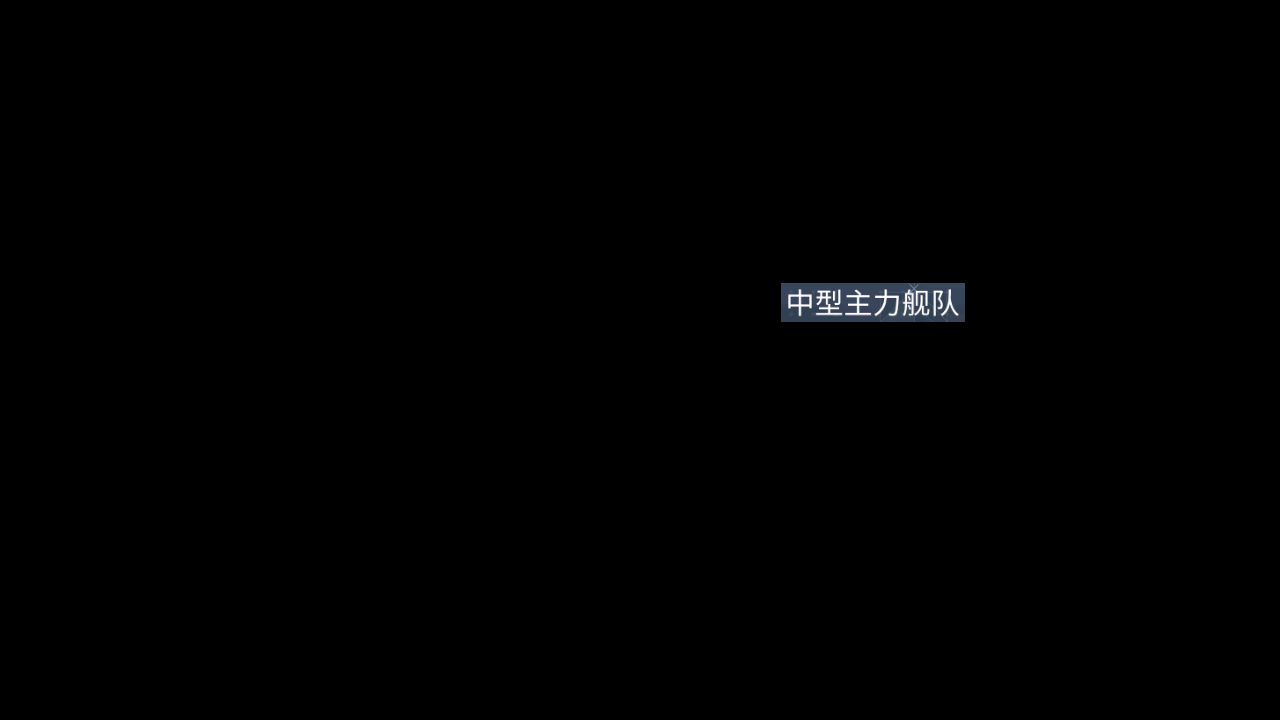
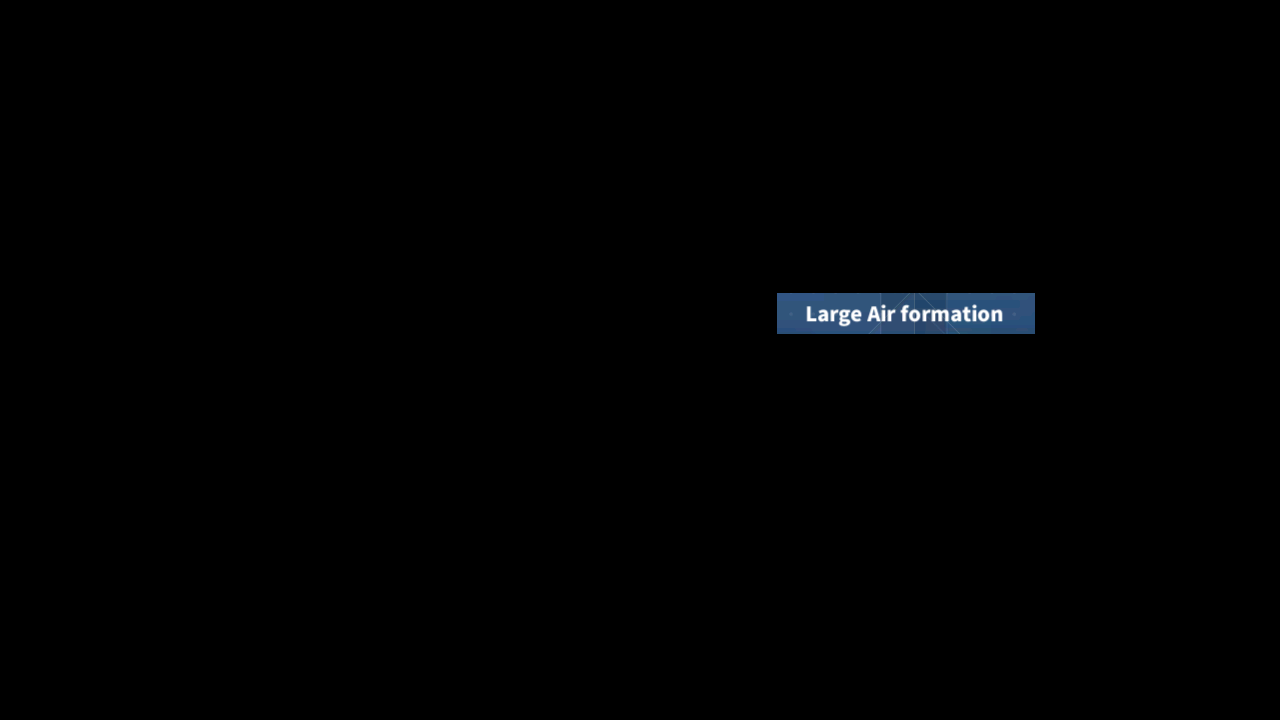
Various asset related changes

Changed region(s): [[0.5938, 0.3667, 0.8125, 0.4889]]

diff --git a/module/combat/assets.py b/module/combat/assets.py
@@ -11,11 +11,11 @@ AUTOMATION_ON = Button(area={'cn': (759, 113, 790, 129), 'en': (759, 113, 790, 1
 AUTOMATION_SWITCH = Button(area={'cn': (821, 106, 907, 136), 'en': (823, 109, 907, 130), 'jp': (822, 105, 905, 133), 'tw': (821, 106, 907, 136)}, color={'cn': (95, 109, 147), 'en': (83, 98, 135), 'jp': (103, 118, 157), 'tw': (95, 109, 147)}, button={'cn': (821, 106, 907, 136), 'en': (823, 109, 907, 130), 'jp': (822, 105, 905, 133), 'tw': (821, 106, 907, 136)}, file={'cn': './assets/cn/combat/AUTOMATION_SWITCH.png', 'en': './assets/en/combat/AUTOMATION_SWITCH.png', 'jp': './assets/jp/combat/AUTOMATION_SWITCH.png', 'tw': './assets/tw/combat/AUTOMATION_SWITCH.png'})
 BATTLE_PREPARATION = Button(area={'cn': (1062, 612, 1089, 643), 'en': (1062, 615, 1161, 640), 'jp': (1062, 613, 1087, 643), 'tw': (1063, 613, 1088, 643)}, color={'cn': (238, 200, 164), 'en': (244, 212, 171), 'jp': (234, 195, 156), 'tw': (238, 203, 168)}, button={'cn': (1043, 607, 1241, 667), 'en': (1045, 607, 1241, 667), 'jp': (1040, 604, 1242, 670), 'tw': (1043, 607, 1241, 667)}, file={'cn': './assets/cn/combat/BATTLE_PREPARATION.png', 'en': './assets/en/combat/BATTLE_PREPARATION.gif', 'jp': './assets/jp/combat/BATTLE_PREPARATION.png', 'tw': './assets/tw/combat/BATTLE_PREPARATION.png'})
 BATTLE_PREPARATION_WITH_OVERLAY = Button(area={'cn': (1058, 622, 1226, 652), 'en': (1058, 622, 1226, 652), 'jp': (1058, 622, 1226, 652), 'tw': (1058, 622, 1226, 652)}, color={'cn': (96, 74, 39), 'en': (96, 74, 39), 'jp': (96, 74, 39), 'tw': (96, 74, 39)}, button={'cn': (1058, 622, 1226, 652), 'en': (1058, 622, 1226, 652), 'jp': (1058, 622, 1226, 652), 'tw': (1058, 622, 1226, 652)}, file={'cn': './assets/cn/combat/BATTLE_PREPARATION_WITH_OVERLAY.png', 'en': './assets/en/combat/BATTLE_PREPARATION_WITH_OVERLAY.png', 'jp': './assets/jp/combat/BATTLE_PREPARATION_WITH_OVERLAY.png', 'tw': './assets/tw/combat/BATTLE_PREPARATION_WITH_OVERLAY.png'})
-BATTLE_STATUS_A = Button(area={'cn': (634, 269, 730, 288), 'en': (634, 269, 730, 288), 'jp': (634, 269, 730, 288), 'tw': (634, 269, 730, 288)}, color={'cn': (235, 229, 111), 'en': (235, 229, 111), 'jp': (235, 229, 111), 'tw': (235, 229, 111)}, button={'cn': (1000, 631, 1055, 689), 'en': (999, 630, 1047, 691), 'jp': (1000, 631, 1055, 689), 'tw': (1000, 631, 1055, 689)}, file={'cn': './assets/cn/combat/BATTLE_STATUS_A.png', 'en': './assets/en/combat/BATTLE_STATUS_A.png', 'jp': './assets/jp/combat/BATTLE_STATUS_A.png', 'tw': './assets/tw/combat/BATTLE_STATUS_A.png'})
-BATTLE_STATUS_B = Button(area={'cn': (625, 297, 712, 317), 'en': (625, 297, 712, 317), 'jp': (625, 297, 712, 317), 'tw': (625, 297, 712, 317)}, color={'cn': (193, 239, 255), 'en': (193, 239, 255), 'jp': (193, 239, 255), 'tw': (193, 239, 255)}, button={'cn': (999, 630, 1047, 691), 'en': (999, 630, 1047, 691), 'jp': (1000, 631, 1055, 689), 'tw': (999, 630, 1047, 691)}, file={'cn': './assets/cn/combat/BATTLE_STATUS_B.png', 'en': './assets/en/combat/BATTLE_STATUS_B.png', 'jp': './assets/jp/combat/BATTLE_STATUS_B.png', 'tw': './assets/tw/combat/BATTLE_STATUS_B.png'})
-BATTLE_STATUS_C = Button(area={'cn': (625, 211, 647, 297), 'en': (625, 211, 647, 297), 'jp': (625, 211, 647, 297), 'tw': (625, 211, 647, 297)}, color={'cn': (199, 208, 198), 'en': (199, 208, 198), 'jp': (199, 208, 198), 'tw': (199, 208, 198)}, button={'cn': (1000, 631, 1055, 689), 'en': (1000, 631, 1055, 689), 'jp': (1000, 631, 1055, 689), 'tw': (1000, 631, 1055, 689)}, file={'cn': './assets/cn/combat/BATTLE_STATUS_C.png', 'en': './assets/en/combat/BATTLE_STATUS_C.png', 'jp': './assets/jp/combat/BATTLE_STATUS_C.png', 'tw': './assets/tw/combat/BATTLE_STATUS_C.png'})
-BATTLE_STATUS_D = Button(area={'cn': (618, 191, 639, 317), 'en': (618, 191, 639, 317), 'jp': (618, 191, 639, 317), 'tw': (618, 191, 639, 317)}, color={'cn': (199, 208, 199), 'en': (199, 208, 199), 'jp': (199, 208, 199), 'tw': (199, 208, 199)}, button={'cn': (1000, 631, 1055, 689), 'en': (1000, 631, 1055, 689), 'jp': (1000, 631, 1055, 689), 'tw': (1000, 631, 1055, 689)}, file={'cn': './assets/cn/combat/BATTLE_STATUS_D.png', 'en': './assets/en/combat/BATTLE_STATUS_D.png', 'jp': './assets/jp/combat/BATTLE_STATUS_D.png', 'tw': './assets/tw/combat/BATTLE_STATUS_D.png'})
-BATTLE_STATUS_S = Button(area={'cn': (643, 297, 722, 317), 'en': (643, 297, 722, 317), 'jp': (643, 297, 722, 317), 'tw': (643, 297, 722, 317)}, color={'cn': (233, 242, 127), 'en': (233, 242, 127), 'jp': (233, 242, 127), 'tw': (233, 242, 127)}, button={'cn': (1000, 631, 1055, 689), 'en': (999, 630, 1047, 691), 'jp': (1000, 631, 1055, 689), 'tw': (1000, 631, 1055, 689)}, file={'cn': './assets/cn/combat/BATTLE_STATUS_S.png', 'en': './assets/en/combat/BATTLE_STATUS_S.png', 'jp': './assets/jp/combat/BATTLE_STATUS_S.png', 'tw': './assets/tw/combat/BATTLE_STATUS_S.png'})
+BATTLE_STATUS_A = Button(area={'cn': (634, 269, 730, 288), 'en': (634, 269, 730, 288), 'jp': (634, 269, 730, 288), 'tw': (634, 269, 730, 288)}, color={'cn': (235, 229, 111), 'en': (235, 229, 111), 'jp': (235, 229, 111), 'tw': (235, 229, 111)}, button={'cn': (634, 269, 730, 288), 'en': (634, 269, 730, 288), 'jp': (634, 269, 730, 288), 'tw': (634, 269, 730, 288)}, file={'cn': './assets/cn/combat/BATTLE_STATUS_A.png', 'en': './assets/en/combat/BATTLE_STATUS_A.png', 'jp': './assets/jp/combat/BATTLE_STATUS_A.png', 'tw': './assets/tw/combat/BATTLE_STATUS_A.png'})
+BATTLE_STATUS_B = Button(area={'cn': (625, 297, 712, 317), 'en': (625, 297, 712, 317), 'jp': (625, 297, 712, 317), 'tw': (625, 297, 712, 317)}, color={'cn': (193, 239, 255), 'en': (193, 239, 255), 'jp': (193, 239, 255), 'tw': (193, 239, 255)}, button={'cn': (625, 297, 712, 317), 'en': (625, 297, 712, 317), 'jp': (625, 297, 712, 317), 'tw': (625, 297, 712, 317)}, file={'cn': './assets/cn/combat/BATTLE_STATUS_B.png', 'en': './assets/en/combat/BATTLE_STATUS_B.png', 'jp': './assets/jp/combat/BATTLE_STATUS_B.png', 'tw': './assets/tw/combat/BATTLE_STATUS_B.png'})
+BATTLE_STATUS_C = Button(area={'cn': (625, 211, 647, 297), 'en': (625, 211, 647, 297), 'jp': (625, 211, 647, 297), 'tw': (625, 211, 647, 297)}, color={'cn': (199, 208, 198), 'en': (199, 208, 198), 'jp': (199, 208, 198), 'tw': (199, 208, 198)}, button={'cn': (625, 211, 647, 297), 'en': (625, 211, 647, 297), 'jp': (625, 211, 647, 297), 'tw': (625, 211, 647, 297)}, file={'cn': './assets/cn/combat/BATTLE_STATUS_C.png', 'en': './assets/en/combat/BATTLE_STATUS_C.png', 'jp': './assets/jp/combat/BATTLE_STATUS_C.png', 'tw': './assets/tw/combat/BATTLE_STATUS_C.png'})
+BATTLE_STATUS_D = Button(area={'cn': (618, 191, 639, 317), 'en': (618, 191, 639, 317), 'jp': (618, 191, 639, 317), 'tw': (618, 191, 639, 317)}, color={'cn': (199, 208, 199), 'en': (199, 208, 199), 'jp': (199, 208, 199), 'tw': (199, 208, 199)}, button={'cn': (618, 191, 639, 317), 'en': (618, 191, 639, 317), 'jp': (618, 191, 639, 317), 'tw': (618, 191, 639, 317)}, file={'cn': './assets/cn/combat/BATTLE_STATUS_D.png', 'en': './assets/en/combat/BATTLE_STATUS_D.png', 'jp': './assets/jp/combat/BATTLE_STATUS_D.png', 'tw': './assets/tw/combat/BATTLE_STATUS_D.png'})
+BATTLE_STATUS_S = Button(area={'cn': (643, 297, 722, 317), 'en': (643, 297, 722, 317), 'jp': (643, 297, 722, 317), 'tw': (643, 297, 722, 317)}, color={'cn': (233, 242, 127), 'en': (233, 242, 127), 'jp': (233, 242, 127), 'tw': (233, 242, 127)}, button={'cn': (643, 297, 722, 317), 'en': (643, 297, 722, 317), 'jp': (643, 297, 722, 317), 'tw': (643, 297, 722, 317)}, file={'cn': './assets/cn/combat/BATTLE_STATUS_S.png', 'en': './assets/en/combat/BATTLE_STATUS_S.png', 'jp': './assets/jp/combat/BATTLE_STATUS_S.png', 'tw': './assets/tw/combat/BATTLE_STATUS_S.png'})
 COMBAT_AUTO = Button(area={'cn': (136, 573, 167, 604), 'en': (136, 573, 167, 604), 'jp': (136, 573, 167, 604), 'tw': (136, 573, 167, 604)}, color={'cn': (229, 242, 255), 'en': (229, 242, 255), 'jp': (229, 242, 255), 'tw': (229, 242, 255)}, button={'cn': (136, 573, 167, 604), 'en': (136, 573, 167, 604), 'jp': (136, 573, 167, 604), 'tw': (136, 573, 167, 604)}, file={'cn': './assets/cn/combat/COMBAT_AUTO.png', 'en': './assets/en/combat/COMBAT_AUTO.png', 'jp': './assets/jp/combat/COMBAT_AUTO.png', 'tw': './assets/tw/combat/COMBAT_AUTO.png'})
 COMBAT_AUTO_133 = Button(area={'cn': (131, 568, 170, 609), 'en': (131, 568, 170, 609), 'jp': (131, 568, 170, 609), 'tw': (131, 568, 170, 609)}, color={'cn': (234, 244, 255), 'en': (234, 244, 255), 'jp': (234, 244, 255), 'tw': (234, 244, 255)}, button={'cn': (131, 568, 170, 609), 'en': (131, 568, 170, 609), 'jp': (131, 568, 170, 609), 'tw': (131, 568, 170, 609)}, file={'cn': './assets/cn/combat/COMBAT_AUTO_133.png', 'en': './assets/en/combat/COMBAT_AUTO_133.png', 'jp': './assets/jp/combat/COMBAT_AUTO_133.png', 'tw': './assets/tw/combat/COMBAT_AUTO_133.png'})
 COMBAT_AUTO_150 = Button(area={'cn': (129, 567, 172, 611), 'en': (129, 567, 172, 611), 'jp': (129, 567, 172, 611), 'tw': (129, 567, 172, 611)}, color={'cn': (238, 247, 255), 'en': (238, 247, 255), 'jp': (238, 247, 255), 'tw': (238, 247, 255)}, button={'cn': (129, 567, 172, 611), 'en': (129, 567, 172, 611), 'jp': (129, 567, 172, 611), 'tw': (129, 567, 172, 611)}, file={'cn': './assets/cn/combat/COMBAT_AUTO_150.png', 'en': './assets/en/combat/COMBAT_AUTO_150.png', 'jp': './assets/jp/combat/COMBAT_AUTO_150.png', 'tw': './assets/tw/combat/COMBAT_AUTO_150.png'})

diff --git a/module/statistics/assets.py b/module/statistics/assets.py
@@ -4,6 +4,6 @@ from module.base.template import Template
 # This file was automatically generated by dev_tools/button_extract.py.
 # Don't modify it manually.
 
-CAMPAIGN_BONUS = Button(area={'cn': (404, 149, 439, 166), 'en': (406, 150, 477, 162), 'jp': (404, 150, 476, 167), 'tw': (404, 149, 439, 166)}, color={'cn': (188, 195, 207), 'en': (199, 204, 212), 'jp': (207, 211, 218), 'tw': (188, 195, 207)}, button={'cn': (404, 149, 439, 166), 'en': (406, 150, 477, 162), 'jp': (404, 150, 476, 167), 'tw': (404, 149, 439, 166)}, file={'cn': './assets/cn/statistics/CAMPAIGN_BONUS.png', 'en': './assets/en/statistics/CAMPAIGN_BONUS.png', 'jp': './assets/jp/statistics/CAMPAIGN_BONUS.png', 'tw': './assets/cn/statistics/CAMPAIGN_BONUS.png'})
-ENEMY_NAME = Button(area={'cn': (781, 283, 965, 322), 'en': (781, 283, 965, 322), 'jp': (781, 283, 965, 322), 'tw': (781, 283, 965, 322)}, color={'cn': (92, 102, 119), 'en': (92, 102, 119), 'jp': (92, 102, 119), 'tw': (92, 102, 119)}, button={'cn': (781, 283, 965, 322), 'en': (781, 283, 965, 322), 'jp': (781, 283, 965, 322), 'tw': (781, 283, 965, 322)}, file={'cn': './assets/cn/statistics/ENEMY_NAME.png', 'en': './assets/en/statistics/ENEMY_NAME.png', 'jp': './assets/jp/statistics/ENEMY_NAME.png', 'tw': './assets/tw/statistics/ENEMY_NAME.png'})
+CAMPAIGN_BONUS = Button(area={'cn': (404, 149, 439, 166), 'en': (371, 73, 743, 107), 'jp': (404, 150, 476, 167), 'tw': (404, 149, 439, 166)}, color={'cn': (188, 195, 207), 'en': (137, 160, 205), 'jp': (207, 211, 218), 'tw': (188, 195, 207)}, button={'cn': (404, 149, 439, 166), 'en': (371, 73, 743, 107), 'jp': (404, 150, 476, 167), 'tw': (404, 149, 439, 166)}, file={'cn': './assets/cn/statistics/CAMPAIGN_BONUS.png', 'en': './assets/en/statistics/CAMPAIGN_BONUS.png', 'jp': './assets/jp/statistics/CAMPAIGN_BONUS.png', 'tw': './assets/cn/statistics/CAMPAIGN_BONUS.png'})
+ENEMY_NAME = Button(area={'cn': (781, 283, 965, 322), 'en': (777, 293, 1035, 334), 'jp': (781, 283, 965, 322), 'tw': (781, 283, 965, 322)}, color={'cn': (92, 102, 119), 'en': (73, 103, 137), 'jp': (92, 102, 119), 'tw': (92, 102, 119)}, button={'cn': (781, 283, 965, 322), 'en': (777, 293, 1035, 334), 'jp': (781, 283, 965, 322), 'tw': (781, 283, 965, 322)}, file={'cn': './assets/cn/statistics/ENEMY_NAME.png', 'en': './assets/en/statistics/ENEMY_NAME.png', 'jp': './assets/jp/statistics/ENEMY_NAME.png', 'tw': './assets/tw/statistics/ENEMY_NAME.png'})
 GET_ITEMS_ODD = Button(area={'cn': (628, 294, 653, 397), 'en': (628, 294, 653, 397), 'jp': (628, 294, 653, 397), 'tw': (628, 294, 653, 397)}, color={'cn': (98, 103, 121), 'en': (98, 103, 121), 'jp': (98, 103, 121), 'tw': (98, 103, 121)}, button={'cn': (628, 294, 653, 397), 'en': (628, 294, 653, 397), 'jp': (628, 294, 653, 397), 'tw': (628, 294, 653, 397)}, file={'cn': './assets/cn/statistics/GET_ITEMS_ODD.png', 'en': './assets/en/statistics/GET_ITEMS_ODD.png', 'jp': './assets/jp/statistics/GET_ITEMS_ODD.png', 'tw': './assets/tw/statistics/GET_ITEMS_ODD.png'})

diff --git a/module/statistics/campaign_bonus.py b/module/statistics/campaign_bonus.py
@@ -1,10 +1,13 @@
 from module.base.button import ButtonGrid
+from module.base.decorator import cached_property
 from module.base.utils import *
+import module.config.server as server
 from module.handler.assets import AUTO_SEARCH_MENU_EXIT
 from module.statistics.assets import CAMPAIGN_BONUS
 from module.statistics.get_items import ITEM_GROUP, GetItemsStatistics
 from module.statistics.item import Item
 from module.statistics.utils import *
+from module.ocr.ocr import Ocr
 
 
 class BonusItem(Item):
@@ -13,12 +16,28 @@ class BonusItem(Item):
 
 
 class CampaignBonusStatistics(GetItemsStatistics):
-    def appear_on(self, image):
-        if AUTO_SEARCH_MENU_EXIT.match(image, offset=(200, 20)) \
-                and CAMPAIGN_BONUS.match(image, offset=(20, 500)):
-            return True
+    @cached_property
+    def ocr_object(self):
+        return Ocr(lang='cnocr', threshold=128, name='REWARDS_OCR')
 
-        return False
+    def appear_on(self, image):
+        if server.server == 'cn':
+            if AUTO_SEARCH_MENU_EXIT.match(image, offset=(200, 20)) \
+                    and CAMPAIGN_BONUS.match(image, offset=(20, 500)):
+                return True
+            return False
+
+        if server.server == 'en':
+            if not AUTO_SEARCH_MENU_EXIT.match(image, offset=(200, 20)):
+                return False
+
+            # Crop image to CAMPAIGN_BONUS area, since there are multiple areas with "Rewards"
+            campaign_bonus_area = CAMPAIGN_BONUS.button
+            cropped_image = crop(image, campaign_bonus_area)
+
+            # OCR to find "Rewards" text since there is "Clearing Rewards Obtained" and "Total Rewards"
+            ocr_result = self.ocr_object.ocr(cropped_image)
+            return "Rewards" in ocr_result
 
     def _stats_get_items_load(self, image):
         ITEM_GROUP.item_class = BonusItem

diff --git a/module/combat/combat.py b/module/combat/combat.py
@@ -373,8 +373,13 @@ class Combat(Level, HPBalancer, Retirement, SubmarineCall, CombatAuto, CombatMan
             else:
                 self.device.sleep((0.25, 0.5))
             self.device.click(BATTLE_STATUS_D)
-            return True
 
+            if self.appear(OPTS_INFO_D, interval=self.battle_status_click_interval):
+                self.device.click(OPTS_INFO_D)               
+            # Click BATTLE_STATUS_D again
+            self.device.click(BATTLE_STATUS_D)
+            return True
+        
         return False
 
     def handle_get_items(self, drop=None):

diff --git a/dev_tools/item_statistics.py b/dev_tools/item_statistics.py
@@ -7,6 +7,7 @@ import module.config.server as server
 
 server.server = 'cn'  # Edit your server here.
 
+from module.base.utils import load_image
 from module.logger import logger
 from module.statistics.battle_status import BattleStatusStatistics
 from module.statistics.get_items import GetItemsStatistics
